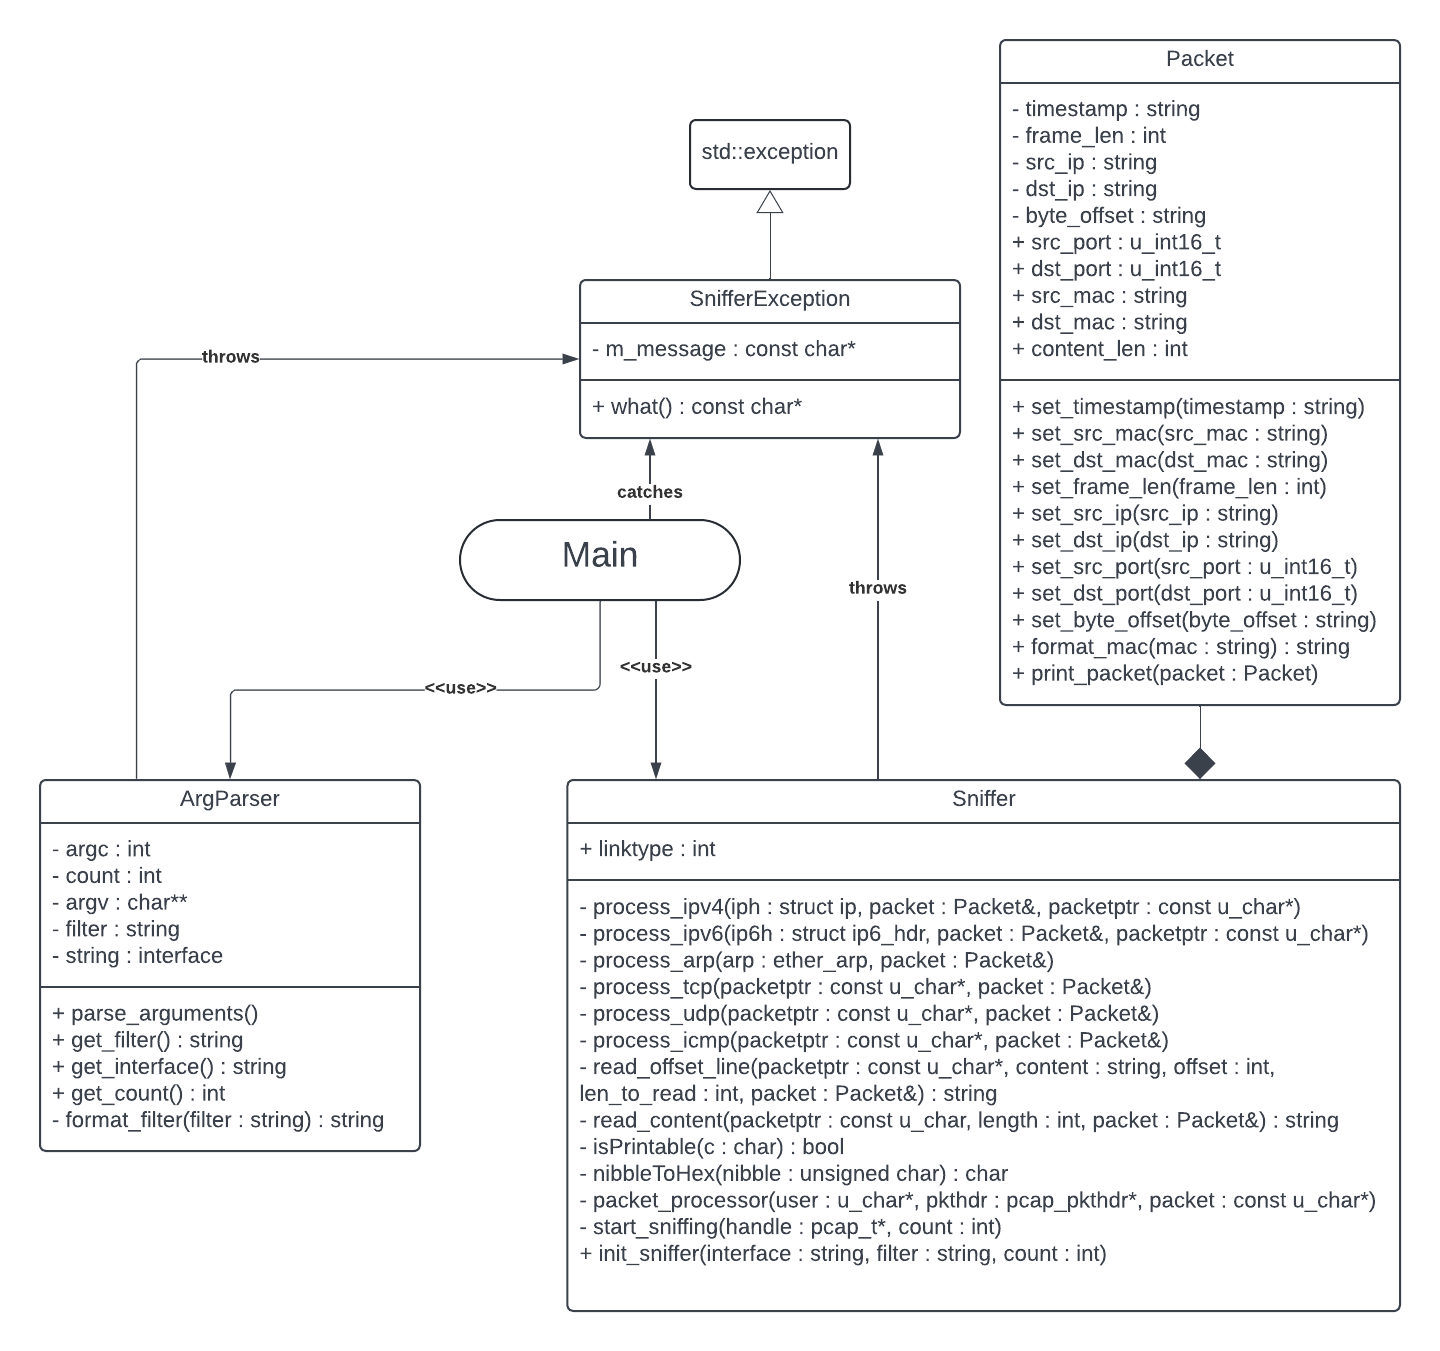
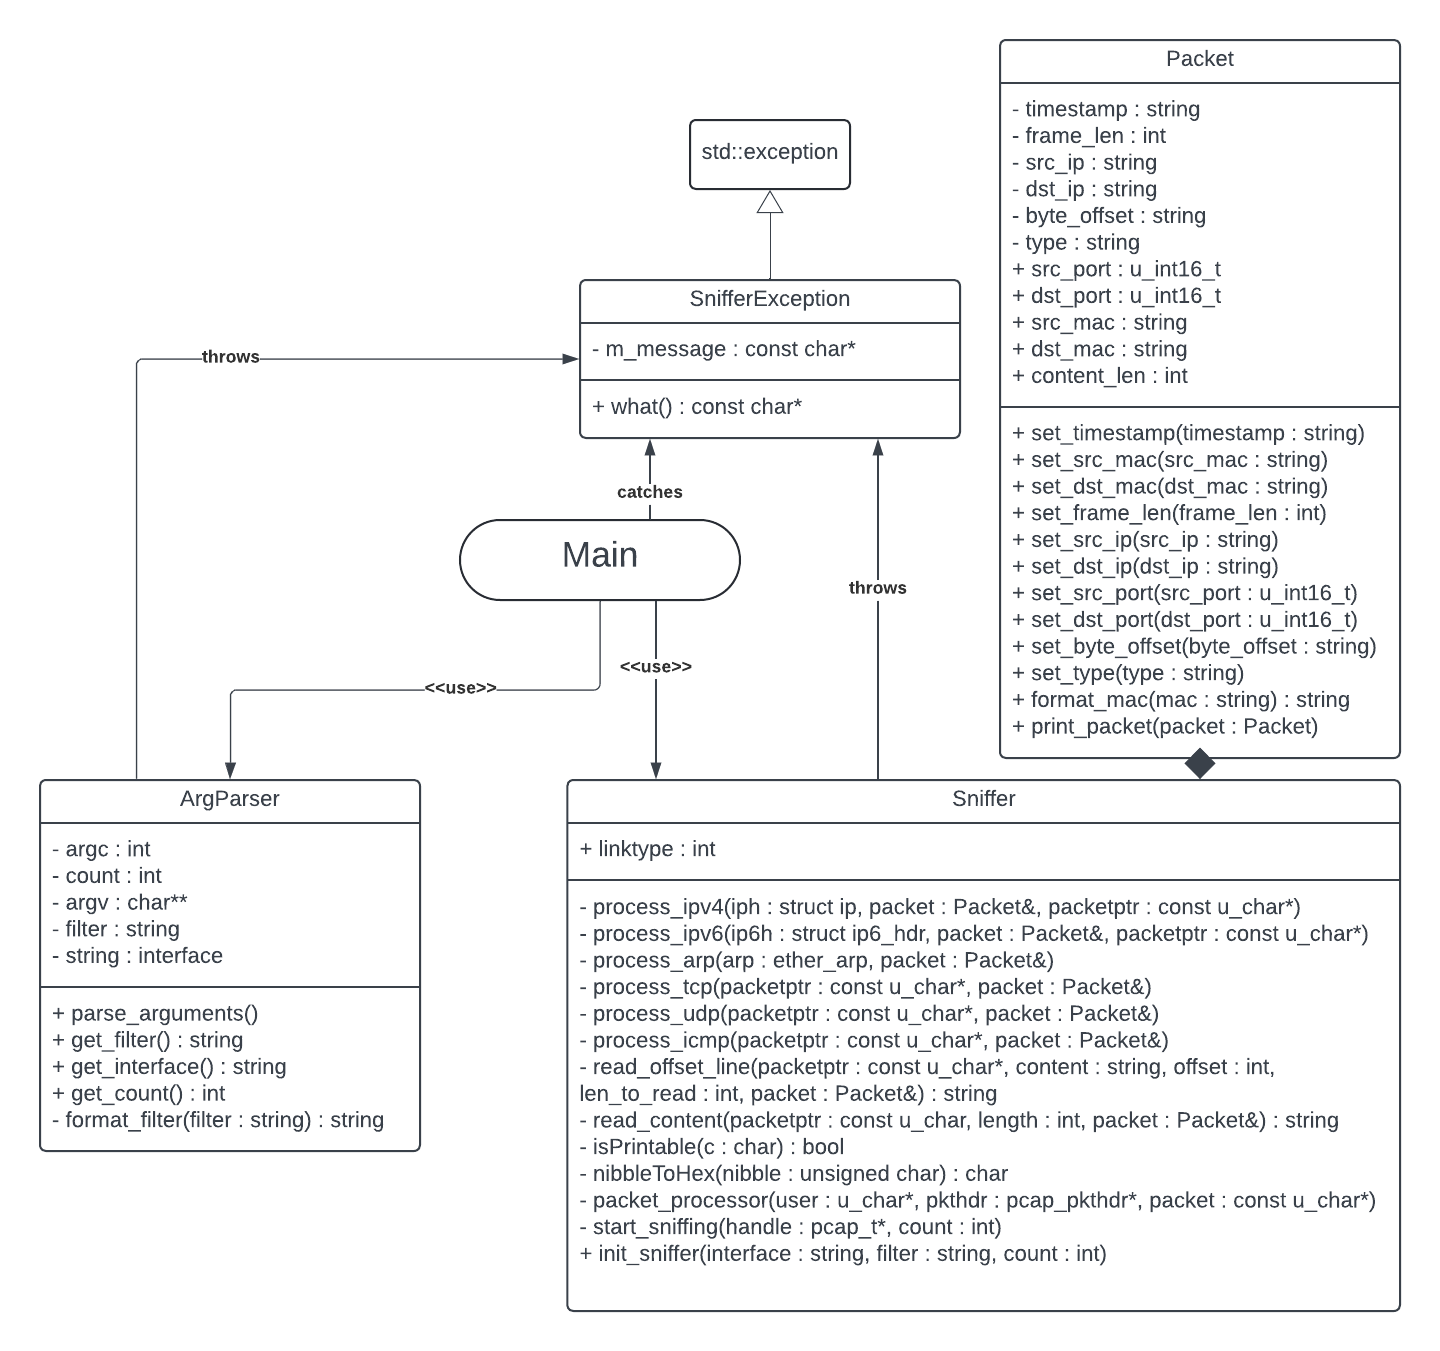
final commit

Changed region(s): [[0.6875, 0.1554, 0.9688, 0.5596]]

diff --git a/sniffer.cpp b/sniffer.cpp
@@ -159,7 +159,6 @@ void Sniffer::process_ipv4(struct ip *iph, Packet& packet, const u_char *packetp
     packet.set_src_ip(std::string(inet_ntoa(iph->ip_src)));
     packet.set_dst_ip(std::string(inet_ntoa(iph->ip_dst)));
     
-    
     packetptr += (iph->ip_hl * 4) + 14; /// adding 14 which is size of ethernet header
     
     /// Depending on protocol, packet is processed
@@ -167,19 +166,27 @@ void Sniffer::process_ipv4(struct ip *iph, Packet& packet, const u_char *packetp
 
         /// TCP
         case IPPROTO_TCP:{
+            packet.set_type("TCP");
             Sniffer::process_tcp(packetptr, packet);
             break;
         }
 
         /// UDP
         case IPPROTO_UDP:{
+            packet.set_type("UDP");
             Sniffer::process_udp(packetptr, packet);
             break;
         }
 
         /// ICMP
         case IPPROTO_ICMP:{
+            packet.set_type("ICMPv4");
             Sniffer::process_icmp(packetptr, packet);
+            break;
+        }
+
+        case IPPROTO_IGMP:{
+            packet.set_type("IGMP");
             break;
         }
         
@@ -199,6 +206,31 @@ void Sniffer::process_ipv6(struct ip6_hdr *ip6h, Packet& packet, const u_char *p
     /// Setting ports
     packet.set_src_port(0);
     packet.set_dst_port(0);
+
+    /// Checking if it is NDP or MLD or none
+    if (ip6h->ip6_nxt == IPPROTO_ICMPV6) {
+        
+        struct icmp6_hdr *icmp6h = (struct icmp6_hdr *)((char *)ip6h + sizeof(struct ip6_hdr));
+        packet.set_type("ICMPv6");
+
+        switch (icmp6h->icmp6_type) {
+            case ND_ROUTER_SOLICIT:
+            case ND_ROUTER_ADVERT:
+            case ND_NEIGHBOR_SOLICIT:
+            case ND_NEIGHBOR_ADVERT:
+
+                packet.set_type("ICMPv6 NDP");
+                break;
+            case MLD_LISTENER_QUERY:
+            case MLD_LISTENER_REPORT:
+
+                packet.set_type("ICMPv6 MLD");
+                break;
+            default:
+        
+                break;
+        }
+    }
 
 }
 
@@ -222,6 +254,8 @@ void Sniffer::process_arp(ether_arp *arp, Packet& packet){
     /// Setting ports
     packet.set_src_port(0);
     packet.set_dst_port(0);
+
+    packet.set_type("ARP");
 }
 
 void Sniffer::process_tcp(const u_char *packetptr, Packet& packet){
@@ -396,6 +430,10 @@ std::string Packet::format_mac(std::string mac){
 }
 
 void Packet::print_packet(Packet packet){
+    
+    if(type != ""){
+        std::cout << "type: " << type << std::endl;
+    }
     std::cout << "timestamp: " << timestamp << std::endl;
     std::cout << "src MAC: " << src_mac << std::endl;
     std::cout << "dst MAC: " << dst_mac << std::endl;
@@ -425,6 +463,6 @@ void Packet::print_packet(Packet packet){
         std::cout << "dst port: -" << std::endl;
     }else{
         std::cout << "dst port: " << dst_port << std::endl;
-    }
+    }  
     std::cout << byte_offset << std::endl;
 }

diff --git a/packet.hpp b/packet.hpp
@@ -24,6 +24,7 @@ class Packet{
         std::string src_ip;
         std::string dst_ip;
         std::string byte_offset = "";
+        std::string type= "";
 
     public:
 
@@ -109,6 +110,14 @@ class Packet{
         */
         void set_byte_offset(std::string byte_offset){
             this->byte_offset = byte_offset;    
+        }
+
+        /**
+         * @brief Setter of type
+         * @param type type to be set
+        */
+        void set_type(std::string type){
+            this->type = type;
         }
 
         /**

diff --git a/tools.cpp b/tools.cpp
@@ -115,7 +115,7 @@ void ArgParser::parse_arguments(){
 
         }else if(!strcmp(arg, "--ndp")){
             
-            this->filter += "icmp6 and (icmp6[0] = 133 or icmp6[0] = 135 or icmp6[0] = 136)";
+            this->filter += "icmp6 and (icmp6[0] = 133 or icmp6[0] = 134 or icmp6[0] = 135 or icmp6[0] = 136)";
         
         }else if(!strcmp(arg, "--igmp")){
             

diff --git a/sniffer.hpp b/sniffer.hpp
@@ -21,6 +21,7 @@
 #include <netinet/ether.h>
 #include <netinet/ip.h>
 #include <netinet/ip6.h>
+#include <netinet/icmp6.h>
 
 #include <sstream>
 #include <csignal>

diff --git a/README.md b/README.md
@@ -106,6 +106,7 @@ CLI input:<br>
 `sudo ./ipk-sniffer -i wlp2s0 -p 48 --tcp`<br>
 Sniffer output:<br>
 ```
+type: TCP
 timestamp: 2024-04-19T19:51:44+0000
 src MAC: 00:00:00:00:00:00
 dst MAC: ff:ff:ff:ff:ff:ff
@@ -130,6 +131,7 @@ CLI input:<br>
 `sudo ./ipk-sniffer -i lo --port-destination 84`<br>
 Sniffer output:<br>
 ```
+type: UDP
 timestamp: 2024-04-19T19:58:51+0000
 src MAC: 00:00:00:00:00:00
 dst MAC: ff:ff:ff:ff:ff:ff
@@ -151,6 +153,7 @@ CLI input:<br>
 `sudo ./ipk-sniffer -i lo --port-source 420`<br>
 Sniffer output:<br>
 ```
+type: UDP
 timestamp: 2024-04-19T20:04:59+0000
 src MAC: 00:00:00:00:00:00
 dst MAC: ff:ff:ff:ff:ff:ff
@@ -172,6 +175,7 @@ CLI input:<br>
 `sudo ./ipk-sniffer -i lo --icmp4`<br>
 Sniffer output:<br>
 ```
+type: ICMPv4
 timestamp: 2024-04-19T20:08:35+0000
 src MAC: 00:00:00:00:00:00
 dst MAC: ff:ff:ff:ff:ff:ff
@@ -194,6 +198,7 @@ CLI input:<br>
 `sudo ./ipk-sniffer -i lo --icmp6`<br>
 Sniffer output:<br>
 ```
+type: ICMPv6
 timestamp: 2024-04-19T20:14:15+0000
 src MAC: 00:00:00:00:00:00
 dst MAC: ff:ff:ff:ff:ff:ff
@@ -216,6 +221,7 @@ CLI input:<br>
 `sudo ./ipk-sniffer -i wlp2s0 --arp`<br>
 Sniffer output:<br>
 ```
+type: ARP
 timestamp: 2024-04-19T20:18:11+0000
 src MAC: a8:1e:84:81:5a:77
 dst MAC: ff:ff:ff:ff:ff:ff
@@ -237,6 +243,7 @@ CLI input:<br>
 `sudo ./ipk-sniffer -i wlp2s0 --ndp`<br>
 Sniffer output:<br>
 ```
+type: ICMPv6 NDP
 timestamp: 2024-04-19T20:21:31+0000
 src MAC: 00:00:00:00:00:00
 dst MAC: 00:11:22:33:44:55
@@ -261,6 +268,7 @@ CLI input:<br>
 `sudo ./ipk-sniffer -i wlp2s0 --mld`<br>
 Sniffer output:<br>
 ```
+type: ICMPv6 MLD
 timestamp: 2024-04-19T20:25:53+0000
 src MAC: a8:1e:84:81:5a:77
 dst MAC: 33:33:00:00:00:01
@@ -288,7 +296,8 @@ Sniffer output:<br>
 ==55341== Copyright (C) 2002-2017, and GNU GPL'd, by Julian Seward et al.
 ==55341== Using Valgrind-3.18.1 and LibVEX; rerun with -h for copyright info
 ==55341== Command: ./ipk-sniffer -i wlp2s0 --mld
-==55341== 
+==55341==
+type: ICMPv6 MLD 
 timestamp: 2024-04-19T20:28:21+0000
 src MAC: a8:1e:84:81:5a:77
 dst MAC: 33:33:00:00:00:01
@@ -342,6 +351,9 @@ CLI output:<br>
 Argument error: Invalid argument
 ```
 
+## Features
+As a feature to required output from sniffer, type of captured packet is printed, so user will see what packet was captured in case of filtering multiple packet types.
+
 ## License
 This code is licensed under the GNU General Public License v3.0. For more information, see the LICENSE file in the root directory of the project.
 
@@ -354,7 +366,7 @@ The whole program is documented using Doxygen annotations. Documentation can be 
 2. Programming with PCAP, Carstens T. [online]. Available at: https://www.tcpdump.org/pcap.html
 3. Project 2 - ZETA: Network sniffer [online]. Available at: https://git.fit.vutbr.cz/NESFIT/IPK-Projects-2024/src/branch/master/Project%202/zeta
 4. Develop a Packet Sniffer with Libpcap [online]. Available at: https://vichargrave.github.io/programming/develop-a-packet-sniffer-with-libpcap/
-5. Basic Python tests for IPK 2nd project - Sniffer, Jakub Jerabek.Available at: https://git.fit.vutbr.cz/xjerab28/IPK-Sniffer-Tests
+5. Basic Python tests for IPK 2nd project - Sniffer, Jakub Jerabek. Available at: https://git.fit.vutbr.cz/xjerab28/IPK-Sniffer-Tests
 
 
 [1]: https://www.geeksforgeeks.org/difference-between-segments-packets-and-frames/

diff --git a/CHANGELOG.md b/CHANGELOG.md
@@ -10,7 +10,7 @@ Author: Dominik Horut (xhorut01)<br>
 * 19.04.2024 **ARP frames support**
 * 20.04.2024 **Documentation**
 
-All changes can be found in project [repository]()
+All changes can be found in project [repository](https://git.fit.vutbr.cz/xhorut01/IPK-Project-2).
 
 ## Known limitations
 IGMP packets were not satisfyingly tested. 
